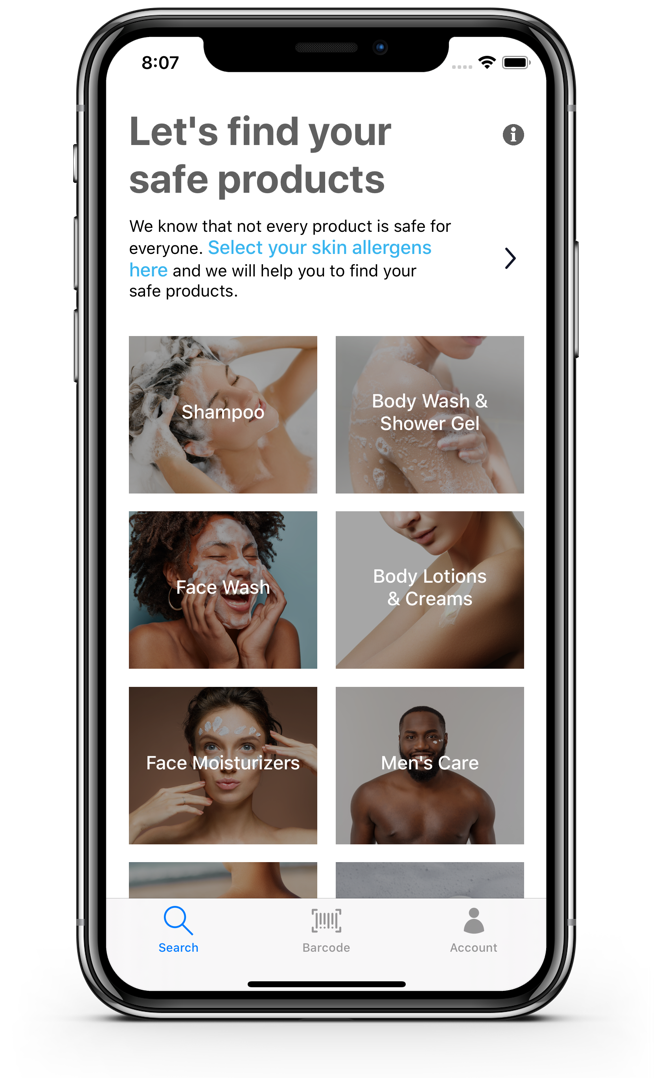
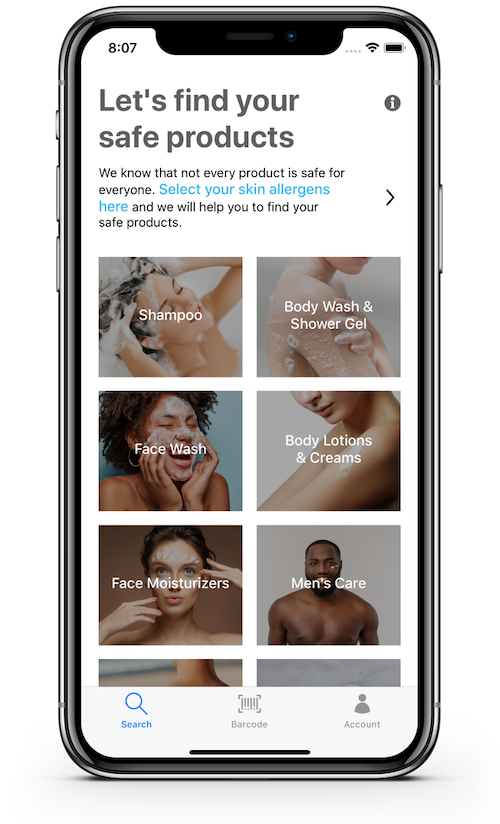
add small iphone image

diff --git a/test2/index.html b/test2/index.html
@@ -64,7 +64,7 @@
         </div>
         <div class="col-md-7 content-box hero-content">
           <span>Lucid Dermatology</span>
-          <h1>Track Your Skin Allergy. <b>ANYWHERE.</b></h1>
+          <h1>Track Your Skin Allergy <b>ANYWHERE</b></h1>
           <p>Find your own personalized list of safe products based on your allergy profile in easy-to-use format. Check if the product is safe for you by scanning its barcode.</p>
 
           <ul class="download-badges">
